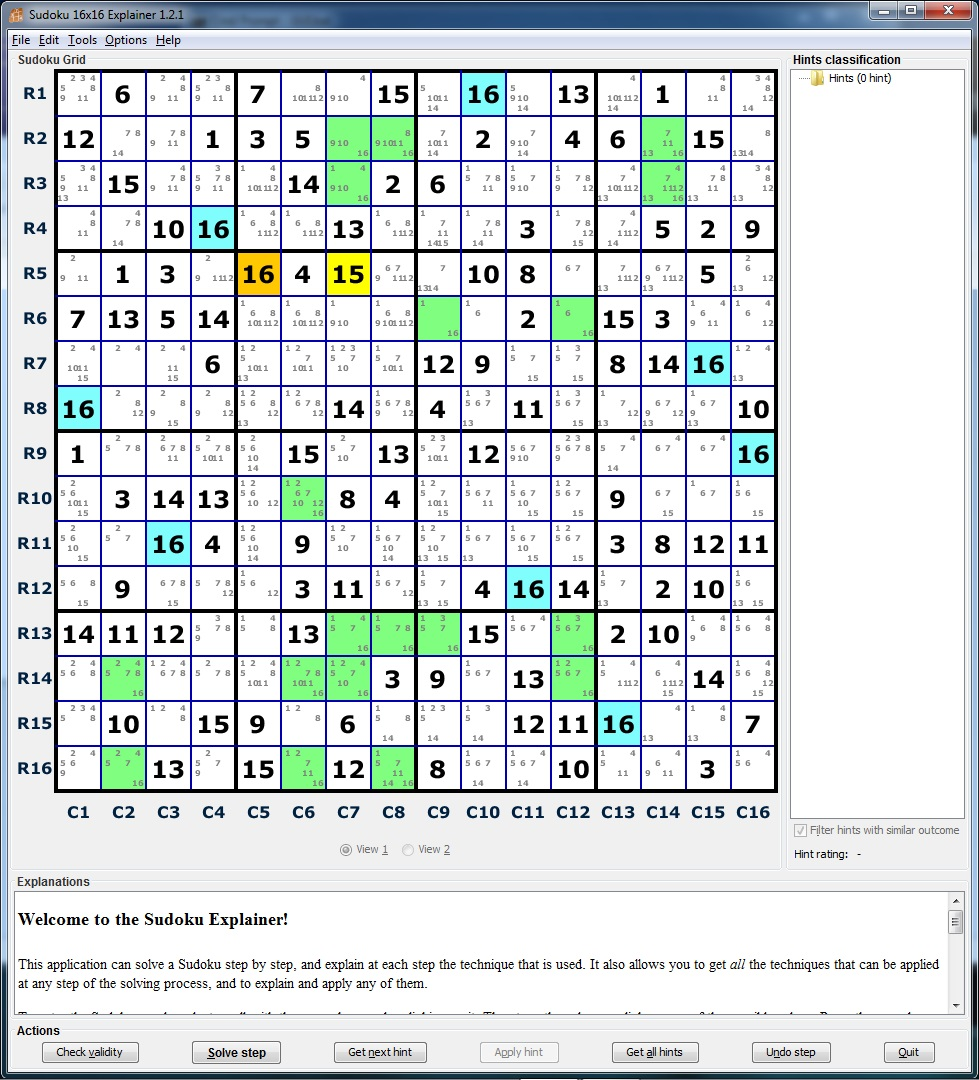
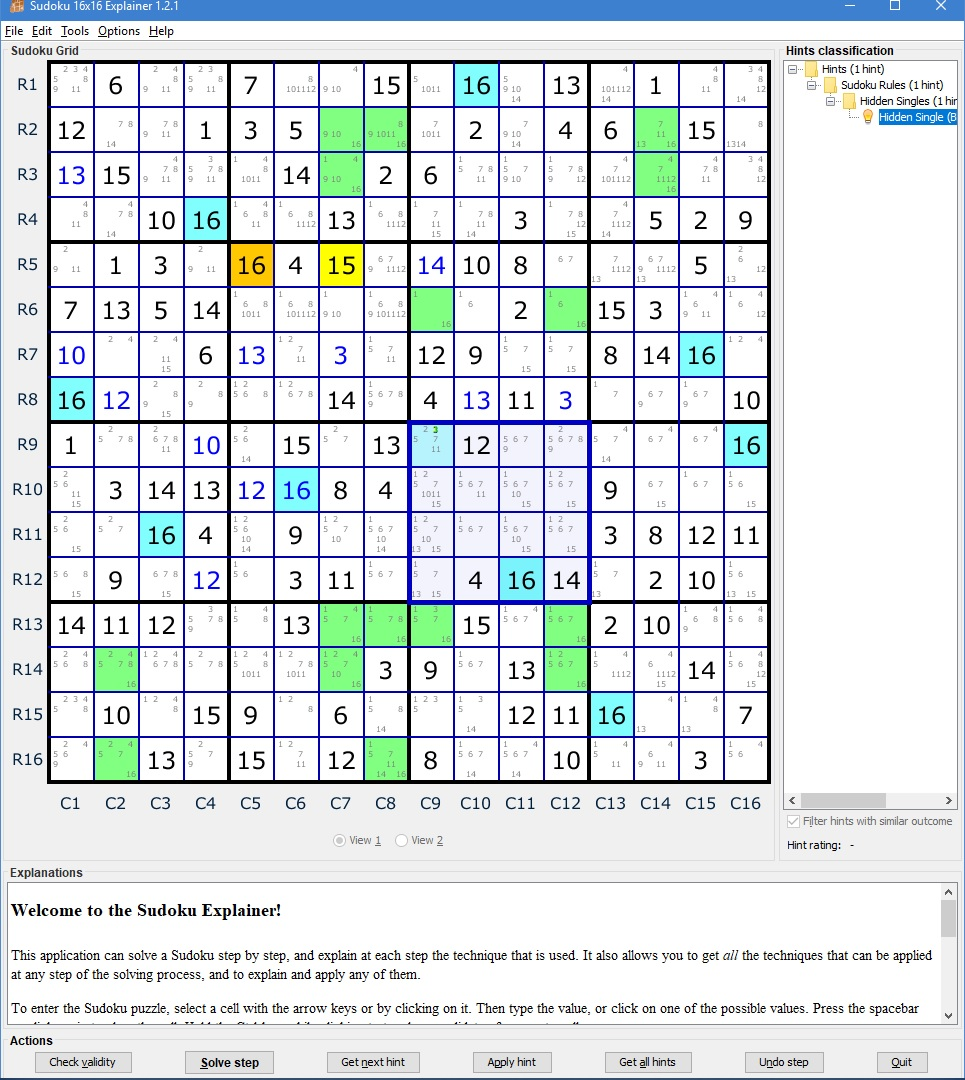
GUI changes

diff --git a/diuf/sudoku/gui/Diabolical.html b/diuf/sudoku/gui/Diabolical.html
@@ -1,6 +1,6 @@
 <html>
  <body>
   <b>Diabolical</b>: The Sudoku requires the use of Forcing Chains or trial & error.<br>
-  Rating: 6.1 - 10.0
+  Rating: 6.1 - 12.0
  </body>
 </html>

diff --git a/diuf/sudoku/solver/Solver.java b/diuf/sudoku/solver/Solver.java
@@ -110,7 +110,7 @@ public class Solver {
         addIfWorth(SolvingTechnique.XYWing, indirectHintProducers, new XYWing(false));
         addIfWorth(SolvingTechnique.DirectHiddenQuad, indirectHintProducers, new HiddenSet(4, true));
         addIfWorth(SolvingTechnique.XYZWing, indirectHintProducers, new XYWing(true));
-//      addIfWorth(SolvingTechnique.UniqueLoop, indirectHintProducers, new UniqueLoops());
+        addIfWorth(SolvingTechnique.UniqueLoop, indirectHintProducers, new UniqueLoops());
         addIfWorth(SolvingTechnique.NakedQuad, indirectHintProducers, new NakedSet(4));
         addIfWorth(SolvingTechnique.Jellyfish, indirectHintProducers, new Fisherman(4));
         addIfWorth(SolvingTechnique.HiddenQuad, indirectHintProducers, new HiddenSet(4, false));
@@ -119,22 +119,22 @@ public class Solver {
         addIfWorth(SolvingTechnique.HiddenQuintuplet, indirectHintProducers, new HiddenSet(5, false));
         addIfWorth(SolvingTechnique.NakedSextuplet, indirectHintProducers, new NakedSet(6));
         addIfWorth(SolvingTechnique.HiddenSextuplet, indirectHintProducers, new HiddenSet(6, false));
-//      addIfWorth(SolvingTechnique.NakedSeptuplet, indirectHintProducers, new NakedSet(7));
-//      addIfWorth(SolvingTechnique.HiddenSeptuplet, indirectHintProducers, new HiddenSet(7, false));
+        addIfWorth(SolvingTechnique.NakedSeptuplet, indirectHintProducers, new NakedSet(7));
+        addIfWorth(SolvingTechnique.HiddenSeptuplet, indirectHintProducers, new HiddenSet(7, false));
 
         addIfWorth(SolvingTechnique.Starfish, indirectHintProducers, new Fisherman(5));
         addIfWorth(SolvingTechnique.Whale, indirectHintProducers, new Fisherman(6));
         addIfWorth(SolvingTechnique.Leviathan, indirectHintProducers, new Fisherman(7));
 
-//      addIfWorth(SolvingTechnique.NakedOctuplet, indirectHintProducers, new NakedSet(8));
-//      addIfWorth(SolvingTechnique.HiddenOctuplet, indirectHintProducers, new HiddenSet(8, false));
-//      addIfWorth(SolvingTechnique.LochNessMonster, indirectHintProducers, new Fisherman(8));
+        addIfWorth(SolvingTechnique.NakedOctuplet, indirectHintProducers, new NakedSet(8));
+        addIfWorth(SolvingTechnique.HiddenOctuplet, indirectHintProducers, new HiddenSet(8, false));
+        addIfWorth(SolvingTechnique.LochNessMonster, indirectHintProducers, new Fisherman(8));
 
         addIfWorth(SolvingTechnique.BivalueUniversalGrave, indirectHintProducers, new BivalueUniversalGrave());
-//      addIfWorth(SolvingTechnique.AlignedPairExclusion, indirectHintProducers, new AlignedPairExclusion());
+        addIfWorth(SolvingTechnique.AlignedPairExclusion, indirectHintProducers, new AlignedPairExclusion());
         chainingHintProducers = new ArrayList<IndirectHintProducer>();
         addIfWorth(SolvingTechnique.ForcingChainCycle, chainingHintProducers, new Chaining(false, false, false, 0, true, 0));
-//      addIfWorth(SolvingTechnique.AlignedTripletExclusion, chainingHintProducers, new AlignedExclusion(3));
+        addIfWorth(SolvingTechnique.AlignedTripletExclusion, chainingHintProducers, new AlignedExclusion(3));
         addIfWorth(SolvingTechnique.NishioForcingChain, chainingHintProducers, new Chaining(false, true, true, 0, true, 0));
         addIfWorth(SolvingTechnique.MultipleForcingChain, chainingHintProducers, new Chaining(true, false, false, 0, true, 0));
         addIfWorth(SolvingTechnique.DynamicForcingChain, chainingHintProducers, new Chaining(true, true, false, 0, true, 0));
@@ -187,6 +187,7 @@ public class Solver {
             for (int x = 0; x < 16; x++) {
                 Cell cell = grid.getCell(x, y);
                 if (cell.getValue() == 0) {
+                    cell.resetGiven();
                     for (int value = 1; value <= 16; value++)
                         cell.addPotentialValue(value);
                 }
@@ -469,6 +470,10 @@ public class Solver {
                     for (IndirectHintProducer producer : chainingHintProducers2)
                         producer.getHints(grid, accu);
                     // Only used for generator. Ignore advanced/experimental techniques
+                    for (IndirectHintProducer producer : advancedHintProducers)
+                        producer.getHints(grid, accu);
+                    for (IndirectHintProducer producer : experimentalHintProducers)
+                        producer.getHints(grid, accu);
                 } catch (InterruptedException willHappen) {}
                 Hint hint = accu.getHint();
                 if (hint == null) {
@@ -480,7 +485,7 @@ public class Solver {
                 double ruleDiff = rule.getDifficulty();
                 if (ruleDiff > difficulty)
                     difficulty = ruleDiff;
-                if (difficulty >= min && max >= 11.0)
+                if (difficulty >= min && max >= 12.0)
                     break;
                 if (difficulty > max)
                     break;

diff --git a/diuf/sudoku/gui/GenerateDialog.java b/diuf/sudoku/gui/GenerateDialog.java
@@ -24,54 +24,6 @@ public class GenerateDialog extends JDialog {
     private static final long serialVersionUID = 8620081149465721387L;
 
     private enum Difficulty {
-//      Easy {
-//
-//          @Override
-//          public double getMinDifficulty() {
-//              return 1.0;
-//          }
-//
-//          @Override
-//          public double getMaxDifficulty() {
-//              return 1.2;
-//          }
-//      },
-//      Medium {
-//
-//          @Override
-//          public double getMinDifficulty() {
-//              return 1.3;
-//          }
-//
-//          @Override
-//          public double getMaxDifficulty() {
-//              return 1.5;
-//          }
-//      },
-//      Hard {
-//
-//          @Override
-//          public double getMinDifficulty() {
-//              return 1.6;
-//          }
-//
-//          @Override
-//          public double getMaxDifficulty() {
-//              return 2.5;
-//          }
-//      },
-//      Fiendish {
-//
-//          @Override
-//          public double getMinDifficulty() {
-//              return 2.6;
-//          }
-//
-//          @Override
-//          public double getMaxDifficulty() {
-//              return 6.0;
-//          }
-//      },
         Diabolical {
 
             @Override
@@ -81,7 +33,55 @@ public class GenerateDialog extends JDialog {
 
             @Override
             public double getMaxDifficulty() {
-                return 11.0;
+                return 12.0;
+            }
+        },
+        Fiendish {
+
+            @Override
+            public double getMinDifficulty() {
+                return 2.6;
+            }
+
+            @Override
+            public double getMaxDifficulty() {
+                return 6.0;
+            }
+        },
+        Hard {
+
+            @Override
+            public double getMinDifficulty() {
+                return 1.6;
+            }
+
+            @Override
+            public double getMaxDifficulty() {
+                return 2.5;
+            }
+        },
+        Medium {
+
+            @Override
+            public double getMinDifficulty() {
+                return 1.3;
+            }
+
+            @Override
+            public double getMaxDifficulty() {
+                return 1.5;
+            }
+        },
+        Easy {
+
+            @Override
+            public double getMinDifficulty() {
+                return 1.0;
+            }
+
+            @Override
+            public double getMaxDifficulty() {
+                return 1.2;
             }
         };
 

diff --git a/diuf/sudoku/SolvingTechnique.java b/diuf/sudoku/SolvingTechnique.java
@@ -22,7 +22,7 @@ public enum SolvingTechnique {
     XYWing("XY-Wing 4.2"),
     DirectHiddenQuad("Direct Hidden Quad 4.3"),
     XYZWing("XYZ-Wing 4.4"),
-//  UniqueLoop("Unique Rectangle / Loop 4.5+"),
+    UniqueLoop("Unique Rectangle / Loop 4.5+"),
     NakedQuad("Naked Quad 5.0"),
     Jellyfish("Jellyfish 5.2"),
     HiddenQuad("Hidden Quad 5.4"),
@@ -31,21 +31,21 @@ public enum SolvingTechnique {
     HiddenQuintuplet("Hidden Quintuplet 5.4"),
     NakedSextuplet("Naked Sextuplet 5.4"),
     HiddenSextuplet("Hidden Sextuplet 5.4"),
-//  NakedSeptuplet("Naked Septuplet 5.4"),
-//  HiddenSeptuplet("Hidden Septuplet 5.4"),
+    NakedSeptuplet("Naked Septuplet 5.4"),
+    HiddenSeptuplet("Hidden Septuplet 5.4"),
 
     Starfish("Starfish 5.5"),
     Whale("Whale 5.5"),
     Leviathan("Leviathan 5.5"),
 
-//  NakedOctuplet("Naked Octuplet 5.6"),
-//  HiddenOctuplet("Hidden Octuplet 5.6"),
-//  LochNessMonster("Loch Ness Monster 5.6"),
+    NakedOctuplet("Naked Octuplet 5.6"),
+    HiddenOctuplet("Hidden Octuplet 5.6"),
+    LochNessMonster("Loch Ness Monster 5.6"),
 
     BivalueUniversalGrave("Bivalue Universal Grave 5.6,5.7+"),
-//  AlignedPairExclusion("Aligned Pair Exclusion 6.2"),
+    AlignedPairExclusion("Aligned Pair Exclusion 6.2"),
     ForcingChainCycle("Forcing Chains & Cycles 6.6+,7.0+"),
-//  AlignedTripletExclusion("Aligned Triplet Exclusion 7.5"),
+    AlignedTripletExclusion("Aligned Triplet Exclusion 7.5"),
     NishioForcingChain("Nishio Forcing Chains 7.5+"),
     MultipleForcingChain("Multiple Forcing Chains 8.0+"),
     DynamicForcingChain("Dynamic Forcing Chains 8.5+"),

diff --git a/diuf/sudoku/gui/SudokuPanel.java b/diuf/sudoku/gui/SudokuPanel.java
@@ -66,9 +66,9 @@ public class SudokuPanel extends JPanel {
             rescale();
         initialize();
         super.setOpaque(false);
-        smallFont = new Font(FONT_NAME, Font.BOLD, FONT_SIZE_SMALL);
-        bigFont = new Font(FONT_NAME, Font.BOLD, FONT_SIZE_BIG);
-        legendFont = new Font(FONT_NAME, Font.BOLD, FONT_SIZE_LEGEND);
+        smallFont = new Font(FONT_NAME, Font.PLAIN, FONT_SIZE_SMALL);
+        bigFont = new Font(FONT_NAME, Font.PLAIN, FONT_SIZE_BIG);
+        legendFont = new Font(FONT_NAME, Font.PLAIN, FONT_SIZE_LEGEND);
     }
 
     private void rescale() {
@@ -474,7 +474,7 @@ public class SudokuPanel extends JPanel {
     }
 
     private void initValueColor(Graphics g, Cell cell) {
-        Color col = Color.black;
+        Color col = cell.isGiven() ? Color.black : Color.blue;
     //  if (cell == selectedCell)
     //      col = new Color(
     //              (col.getRed() + Color.orange.getRed()) / 2,

diff --git a/diuf/sudoku/Cell.java b/diuf/sudoku/Cell.java
@@ -25,7 +25,7 @@ public class Cell {
     private final int y;
     private int value = 0;
     private BitSet potentialValues = new BitSet(16);
-
+    private boolean isGiven;
 
     /**
      * Create a new cell
@@ -37,6 +37,16 @@ public class Cell {
         this.grid = grid;
         this.x = x;
         this.y = y;
+    }
+
+    public void setGiven() {
+        this.isGiven = true;
+    }
+    public void resetGiven() {
+        this.isGiven = false;
+    }
+    public boolean isGiven() {
+        return this.isGiven;
     }
 
     /**
@@ -268,6 +278,7 @@ public class Cell {
 //a     assert this.x == other.x && this.y == other.y;
         other.value = this.value;
         other.potentialValues = (BitSet)this.potentialValues.clone();
+        other.isGiven = this.isGiven;
     }
 
 }

diff --git a/diuf/sudoku/Settings.java b/diuf/sudoku/Settings.java
@@ -137,6 +137,17 @@ public class Settings {
 
     private void init() {
         techniques = EnumSet.allOf(SolvingTechnique.class);
+        // these are problematic
+        techniques.remove(SolvingTechnique.UniqueLoop);
+        techniques.remove(SolvingTechnique.AlignedPairExclusion);
+        techniques.remove(SolvingTechnique.AlignedTripletExclusion);
+        // these are rare
+        techniques.remove(SolvingTechnique.NakedSeptuplet);
+        techniques.remove(SolvingTechnique.HiddenSeptuplet);
+        // these are elusive
+        techniques.remove(SolvingTechnique.NakedOctuplet);
+        techniques.remove(SolvingTechnique.HiddenOctuplet);
+        techniques.remove(SolvingTechnique.LochNessMonster);
     }
 
     public void load() {

diff --git a/diuf/sudoku/Grid.java b/diuf/sudoku/Grid.java
@@ -123,6 +123,7 @@ public class Grid {
      */
     public void setCellValue(int x, int y, int value) {
         this.cells[y][x].setValue(value);
+        this.cells[y][x].setGiven();
     }
 
     /**

diff --git a/README.md b/README.md
@@ -41,6 +41,10 @@ A puzzle converter to the A-P format used by Sudoku16Explainer is [here](https:/
 - slightly improved SolvingTechnique, NakedSingle, Chaining, Grid.
 - fixed parallel processing threads finishing order
 
+## Changes 20191118
+- re-enabled commented out techniques, 8 solving techniques are disabled
+- changed to PLAIN font for GUI grid, black given cells, blue solved cells
+
 ## Usage - GUI
 
 java.exe -jar Sudoku16Explainer.jar
